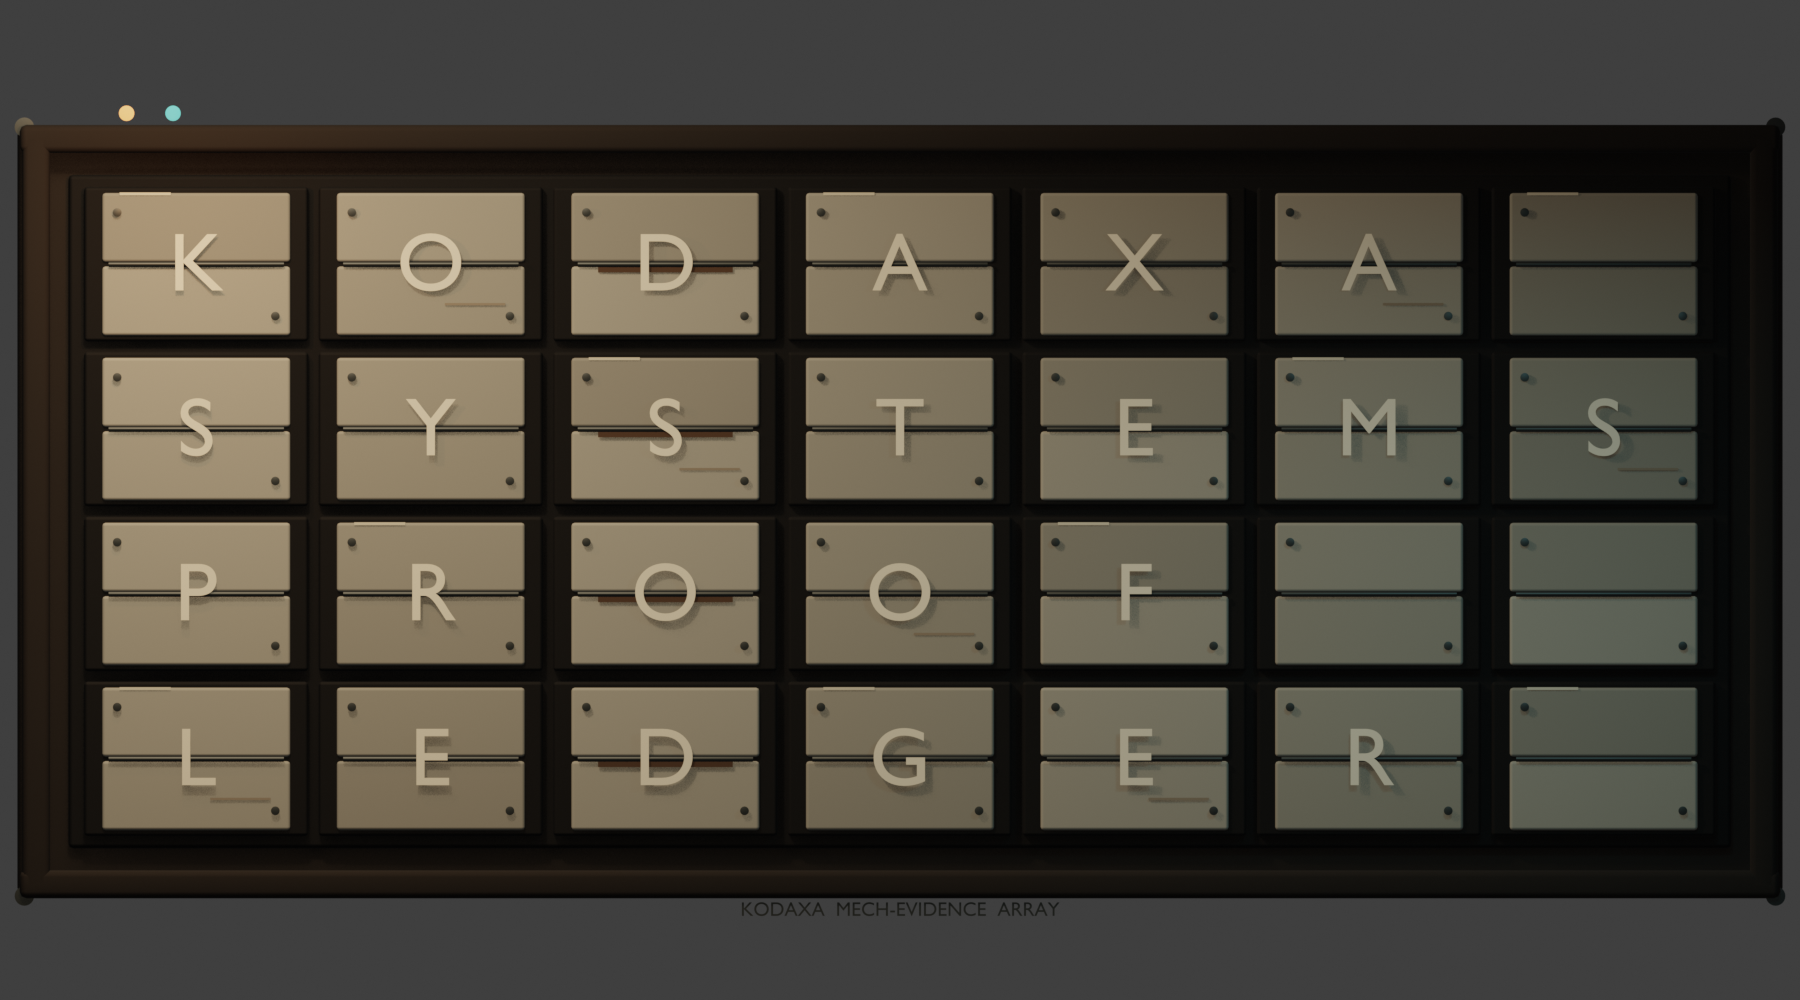
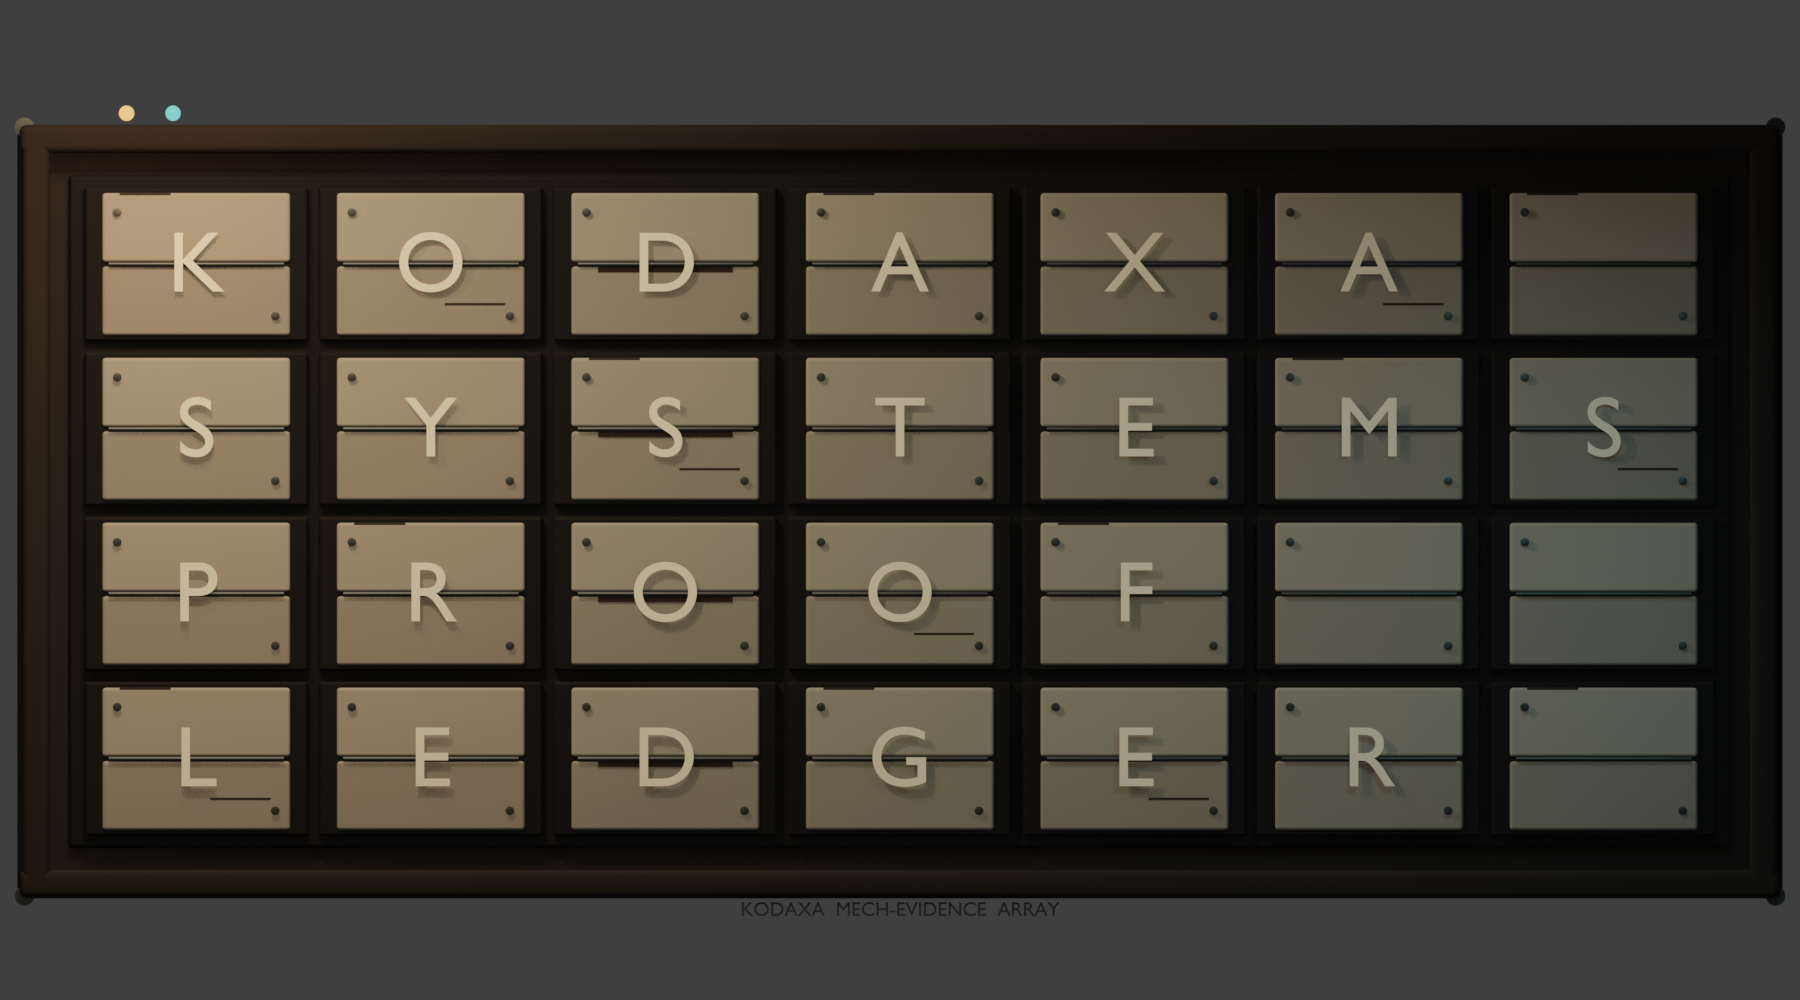
fix: improve split-flap word readability

diff --git a/src/styles/split-flap.css b/src/styles/split-flap.css
@@ -131,6 +131,7 @@
     inset 0 12px 18px rgba(0, 0, 0, 0.72),
     inset 8px 0 12px rgba(111, 78, 48, 0.035);
   content: '';
+  z-index: 0;
 }
 
 .split-cell::after {
@@ -141,8 +142,9 @@
   height: 2px;
   border-radius: 999px;
   background: rgba(118, 82, 51, 0.2);
-  opacity: calc(0.22 + (var(--wear, 0) * 0.08));
+  opacity: calc(0.08 + (var(--wear, 0) * 0.035));
   content: '';
+  z-index: 2;
 }
 
 .split-cell__face {
@@ -159,6 +161,7 @@
     inset 0 1px 0 rgba(255, 255, 255, 0.18),
     inset 0 -1px 0 rgba(0, 0, 0, 0.44);
   transition: transform 44ms cubic-bezier(0.24, 0.74, 0.32, 1), filter 44ms ease-out;
+  z-index: 1;
 }
 
 .split-cell__face--top {
@@ -188,6 +191,7 @@
     0 -1px 0 rgba(255, 255, 255, 0.05),
     0 2px 4px rgba(0, 0, 0, 0.7);
   transform: translateY(-50%);
+  z-index: 3;
 }
 
 .split-cell__glyph {
@@ -195,16 +199,17 @@
   inset: 0;
   display: grid;
   place-items: center;
-  color: rgba(238, 225, 190, 0.86);
+  color: rgba(248, 237, 209, 0.96);
   font-family: Arial, Helvetica, sans-serif;
   font-size: clamp(1.18rem, 4vw, 3.4rem);
   font-weight: 700;
   line-height: 1;
   text-shadow:
-    0 1px 0 rgba(255, 246, 221, 0.14),
-    7px 9px 8px rgba(0, 0, 0, 0.42);
-  opacity: var(--paint-opacity, 0.88);
+    0 1px 0 rgba(255, 249, 229, 0.2),
+    6px 8px 7px rgba(0, 0, 0, 0.46);
+  opacity: 0.96;
   transform: translateZ(20px);
+  z-index: 4;
 }
 
 .split-cell__screw {
@@ -216,6 +221,7 @@
   box-shadow:
     inset 0 1px 1px rgba(255, 255, 255, 0.18),
     1px 2px 3px rgba(0, 0, 0, 0.65);
+  z-index: 5;
 }
 
 .split-cell__screw--top {
@@ -237,43 +243,36 @@
 .split-cell[data-tone='0'] {
   --flap-top: #675d4d;
   --flap-bottom: #44483d;
-  --paint-opacity: 0.9;
 }
 
 .split-cell[data-tone='1'] {
-  --flap-top: #5f665f;
-  --flap-bottom: #3a4644;
-  --paint-opacity: 0.82;
+  --flap-top: #62665d;
+  --flap-bottom: #404844;
 }
 
 .split-cell[data-tone='2'] {
-  --flap-top: #6c614e;
-  --flap-bottom: #4b4438;
-  --paint-opacity: 0.86;
+  --flap-top: #6b6250;
+  --flap-bottom: #4a443a;
 }
 
 .split-cell[data-tone='3'] {
-  --flap-top: #59605a;
-  --flap-bottom: #363f3d;
-  --paint-opacity: 0.8;
+  --flap-top: #5f625a;
+  --flap-bottom: #3d4641;
 }
 
 .split-cell[data-tone='4'] {
-  --flap-top: #716957;
-  --flap-bottom: #4d4b40;
-  --paint-opacity: 0.87;
+  --flap-top: #6e6656;
+  --flap-bottom: #4c493e;
 }
 
 .split-cell[data-tone='5'] {
-  --flap-top: #5b615a;
-  --flap-bottom: #333d3b;
-  --paint-opacity: 0.83;
+  --flap-top: #60645c;
+  --flap-bottom: #3e4641;
 }
 
 .split-cell[data-tone='6'] {
   --flap-top: #655844;
   --flap-bottom: #464034;
-  --paint-opacity: 0.89;
 }
 
 .split-cell[data-wear='0'] {
@@ -311,7 +310,7 @@
 }
 
 .split-cell.is-locked .split-cell__glyph {
-  color: rgba(239, 224, 188, 0.9);
+  color: rgba(250, 239, 213, 0.98);
 }
 
 .split-cell.is-settling {